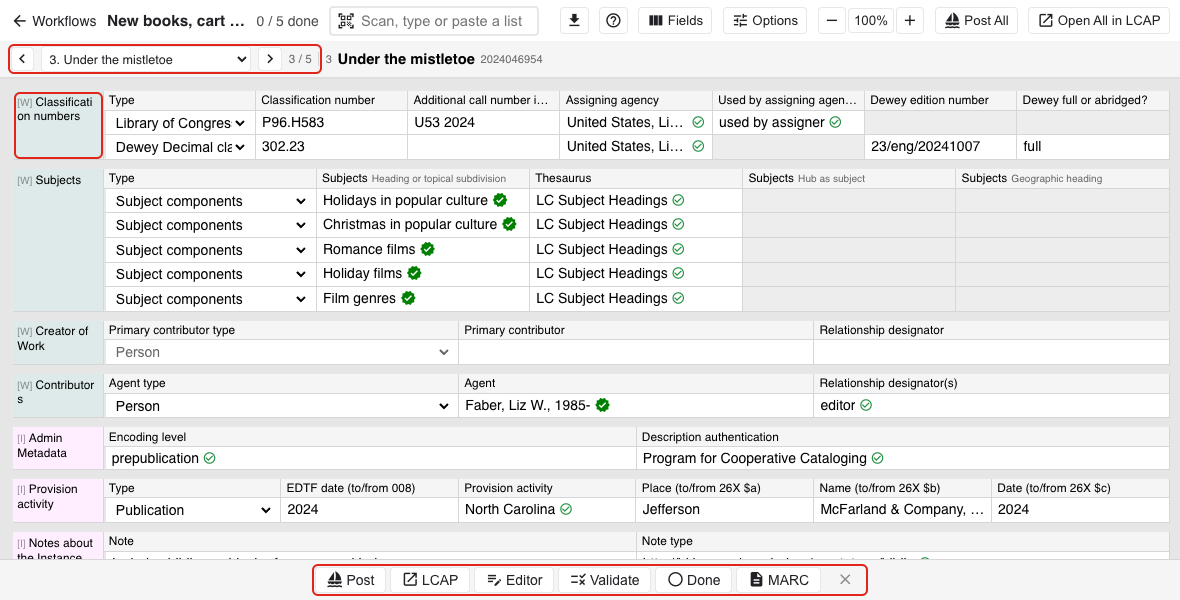
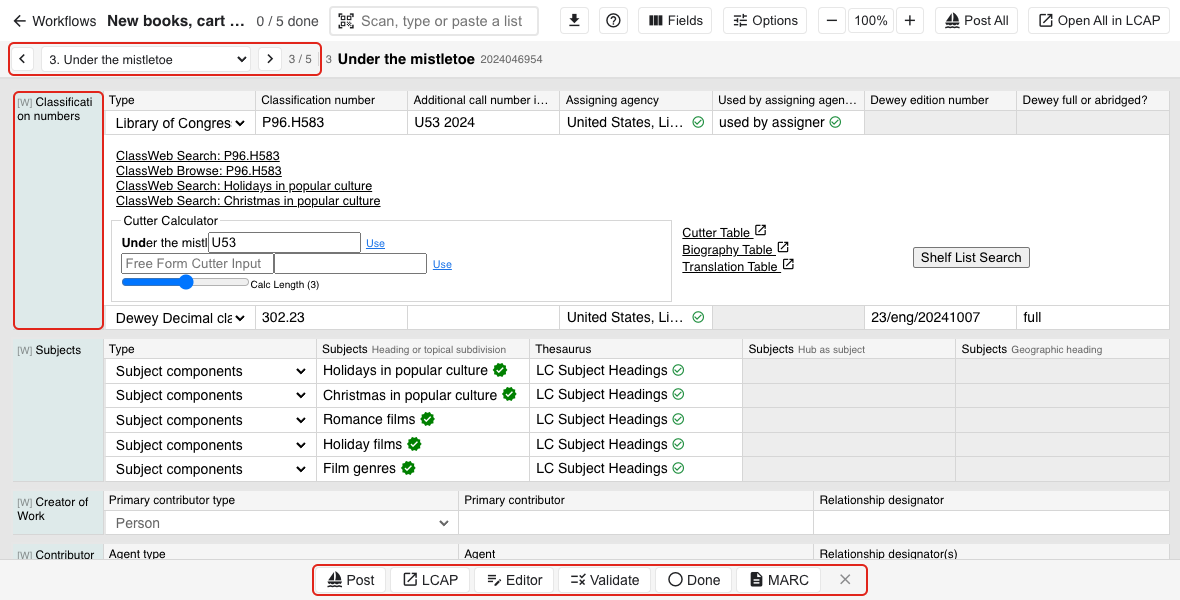
workflows - add shelflisting tools and pref documentation

diff --git a/Marva tools/workflows.md b/Marva tools/workflows.md
@@ -16,6 +16,7 @@ A **workflow** is a saved list of fields (for example *Monograph: CIP Verificati
 - [The record's buttons](#the-records-buttons)
 - [Choosing the fields](#choosing-the-fields)
 - [Options and the one-record-per-page layout](#options-and-the-one-record-per-page-layout)
+- [Shelflisting tools](#shelflisting-tools)
 - [Exporting to CSV](#exporting-to-csv)
 - [Saving and coming back to a sheet](#saving-and-coming-back-to-a-sheet)
 - [CIP Verification](#cip-verification)
@@ -248,7 +249,57 @@ In this layout one record fills the page and its fields are stacked down it, whi
 - Left column: the name of each field.
 - Bottom: the record's buttons.
 
+Under a Library of Congress class number are the shelflisting tools, see [Shelflisting tools](#shelflisting-tools).
+
 **W / S** or **Page Up / Page Down** turn to the previous or next record. A scan adds the record to the end of the list and leaves you on the record you are working on.
+
+## Shelflisting tools
+
+A Library of Congress class number in a workflow comes with the shelflisting tools the Marva editor has in its Classification numbers component: the ClassWeb links, the Cutter Calculator, your shelflisting links and **Shelf List Search**. What each tool is for is described in [Classification numbers](../work-description/classification-numbers.md).
+
+The tools need the *Classification numbers* field to be on the sheet (see [Choosing the fields](#choosing-the-fields)). They are shown for Library of Congress class numbers only: not for Dewey or other class numbers, and not for MLC numbers.
+
+### In the one-record-per-page layout
+
+The tools are always shown, under the class number they belong to.
+
+![The shelflisting tools under the LC class number of a record in the one-record-per-page layout, with numbered highlights](../images/wf-shelflist-page.png)
+
+1. **ClassWeb links**: search or browse ClassWeb for the record's class number. When the record has subject headings there is a ClassWeb search for the first two as well.
+2. **Cutter Calculator**: a cutter worked out from the creator's name, from the name starting at its second letter, and from the title. Type anything into *Free Form Cutter Input* to have a cutter worked out for it. The *Calc Length* slider sets how long the cutters are.
+3. **Shelflisting links**: the Cutter Table, Biography Table, Translation Table and any other links set in the Shelflisting preferences. They open in a new tab.
+4. **Shelf List Search**: opens the [Shelf Listing Browser](k-shelf-listing-browser.md) at the record's class number and cutter.
+
+### In the spreadsheet
+
+The rows of the sheet are kept short, so here the tools are closed until you ask for them. A calculator icon marks each LC class number, at the right of its *Additional call number information* cell.
+
+![A sheet with the calculator icon in the Additional call number information cell of a record highlighted](../images/wf-shelflist-icon.png)
+
+Click the icon to open the tools in a row under that line of the record.
+
+![The shelflisting tools open under the LC class number of the first record of a sheet, with two highlights](../images/wf-shelflist-sheet.png)
+
+1. The icon turns blue while the tools are open. Click it again to close them.
+2. The **X** closes them too.
+
+The tools of several records can be open at once. They stay open while you work elsewhere on the sheet, and are closed again the next time the sheet is opened. If the sheet does not have the *Additional call number information* column the icon is in the *Classification number* cell instead.
+
+### Using a cutter
+
+Click **Use** beside a cutter to put it into the record's *Additional call number information*. It works the same in both layouts.
+
+- The cutter replaces everything in that cell, a year included, so type the year back in after it.
+- **Ctrl / ⌘ + Z** takes it back out.
+- As with any other change, the record is saved a moment later and is no longer marked Done.
+
+The cutters are a guide. As in the editor, the number has to fit the order of the shelflist, which is what **Shelf List Search** is for.
+
+### Turning the tools off
+
+The tools are on to begin with. To turn them off, open **Options**, click **All preferences...** and uncheck [Shelflisting tools in Workflows](../Configuration/preferences-reference.md#shelflisting-tools-in-workflows). The icons in the spreadsheet and the tools on the page both go.
+
+The other Shelflisting preferences apply here as they do in the editor: the starting cutter length, whether the ClassWeb links are above or beside the Cutter Calculator, and the labels and URLs of the shelflisting links. *Display cutter tools* is for the editor only and does not change Workflows.
 
 ## Exporting to CSV
 
@@ -491,6 +542,7 @@ The **?** button at the top of the sheet shows this list.
 | Ctrl / ⌘ + wheel | zoom |
 | Column edge | drag to resize, double click to reset |
 | Column header | select the column, then paste a copied cell down it |
+| Calculator icon in a LC class number | open or close its shelflisting tools |
 
 ### Keyboard, with a cell selected
 
